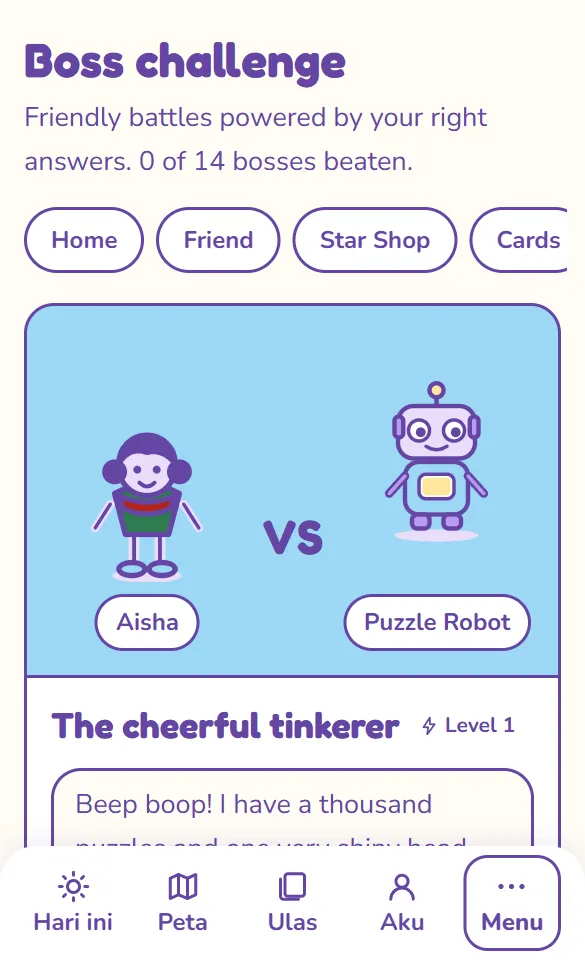
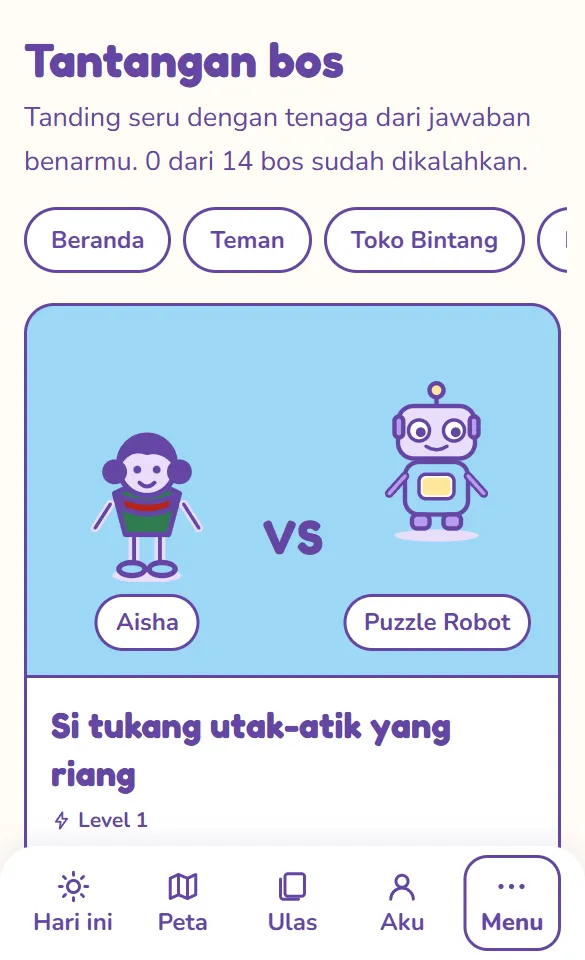
Panduan: tangkapan layar Dunia Kira berbahasa Indonesia, nama Puzzle Robot sesuai layar

diff --git a/apps/web/src/screens/public/panduan/parent-content.tsx b/apps/web/src/screens/public/panduan/parent-content.tsx
@@ -780,7 +780,7 @@ const DUNIA: GuideFeature[] = [
     id: 'bos',
     title: 'Tantangan bos',
     icon: ui('bolt'),
-    what: 'Ada 14 lawan ramah dalam 3 level, mulai dari Robot Teka-Teki. Satu tantangan berisi 10 soal biasa sesuai kelas anak, dan anak menang kalau benar 7. Lawan baru datang setiap 2 hari belajar. Kemenangan pertama dalam seminggu memberi 10 bintang, dan kemenangan pertama atas seorang lawan memberi kartunya.',
+    what: 'Ada 14 lawan ramah dalam 3 level, mulai dari Puzzle Robot. Satu tantangan berisi 10 soal biasa sesuai kelas anak, dan anak menang kalau benar 7. Lawan baru datang setiap 2 hari belajar. Kemenangan pertama dalam seminggu memberi 10 bintang, dan kemenangan pertama atas seorang lawan memberi kartunya.',
     suits: 'Raka kelas 4 suka tantangan. Ia memilih lawan yang kelemahannya Math, dan kalah pun ia hanya perlu mencoba lagi.',
     steps: [
       <>

diff --git a/apps/web/src/screens/public/panduan/KidsGuide.tsx b/apps/web/src/screens/public/panduan/KidsGuide.tsx
@@ -135,7 +135,7 @@ const STOPS: Stop[] = [
     tone: 'lavender',
     thumb: <RobotArt size={56} />,
     art: <RobotArt size={160} />,
-    lines: ['Ada 14 lawan yang lucu.', 'Yang pertama Robot Teka-Teki.', 'Ada 10 soal. Jawab benar 7 soal. Kamu menang!', 'Menang? Kamu dapat kartu dan bintang.', 'Belum menang? Tidak ada yang hilang.', 'Boleh coba lagi kapan saja.'],
+    lines: ['Ada 14 lawan yang lucu.', 'Yang pertama Puzzle Robot.', 'Ada 10 soal. Jawab benar 7 soal. Kamu menang!', 'Menang? Kamu dapat kartu dan bintang.', 'Belum menang? Tidak ada yang hilang.', 'Boleh coba lagi kapan saja.'],
   },
   {
     id: 'kamus',
